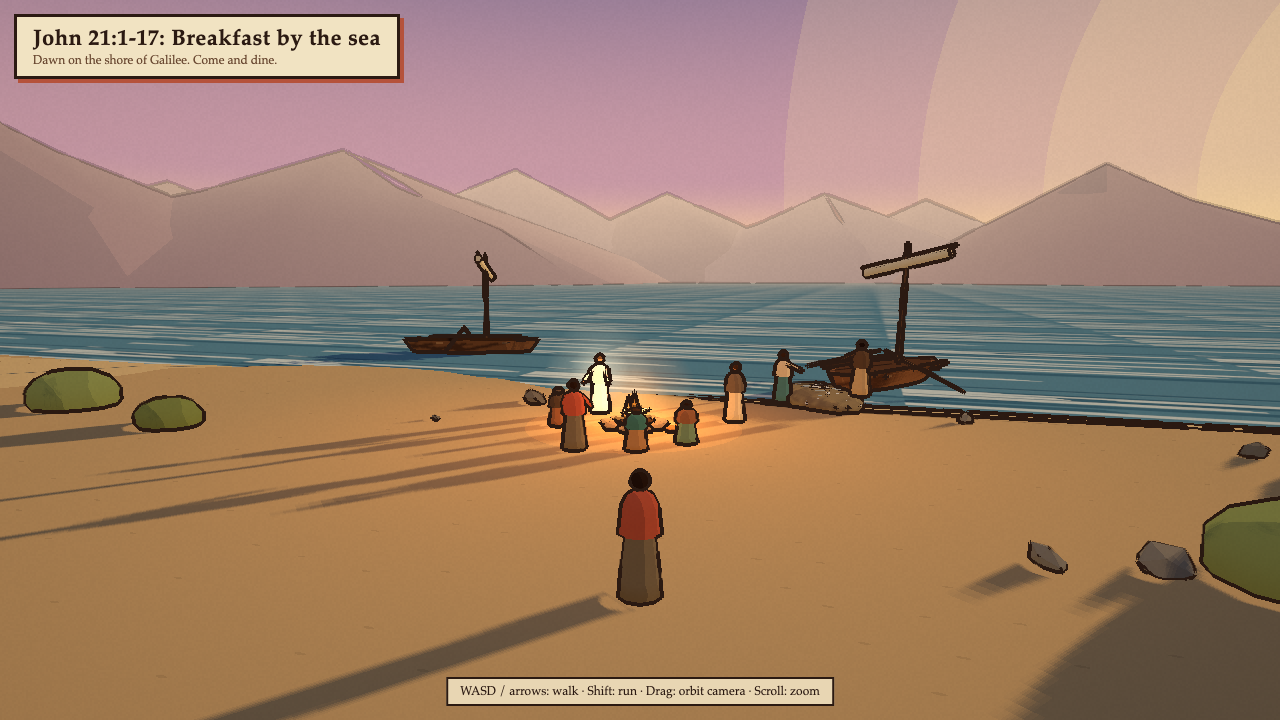
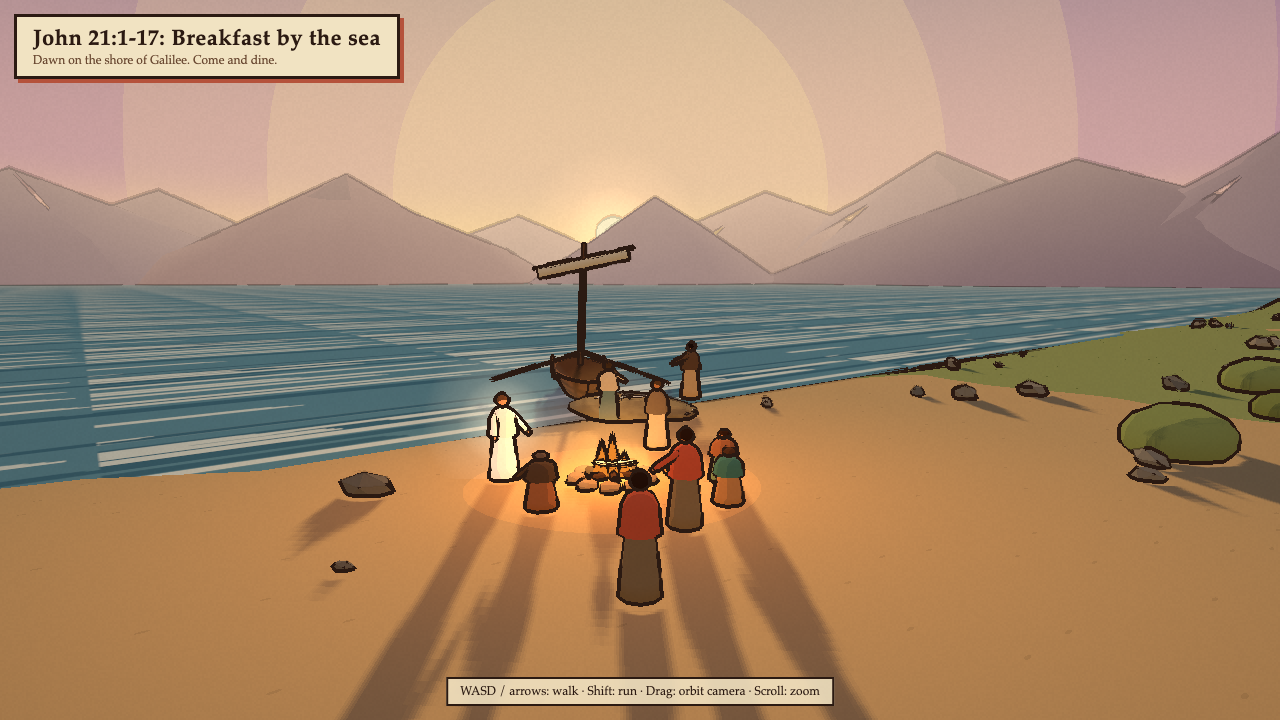
feat: polish toon scenes nt-25 to nt-31

diff --git a/styles/toon/scenes/nt-29.js b/styles/toon/scenes/nt-29.js
@@ -119,7 +119,7 @@ export default {
     facing: [0, -4],
     colors: PALETTE,
     aisles: [{ from: [3, 30], to: [1, -5], width: 3.2 }],
-    keepClear: [{ kind: 'circle', x: -0.4, z: -4, r: 3.6 }],
+    keepClear: [{ kind: 'circle', x: -0.4, z: -4, r: 3.6 }, { kind: 'circle', x: -3.4, z: -0.4, r: 2.4 }, { kind: 'circle', x: -6.2, z: 2.4, r: 2.8 }],
     groups: [
       { center: [-0.4, -4], radius: [4.5, 14], angle: [0.75, 1.65], count: 50, children: 0.1 },
       { center: [-0.4, -4], radius: [4.5, 14], angle: [-1.65, -0.75], count: 50, children: 0.1 },
@@ -130,8 +130,9 @@ export default {
   },
 
   player: {
-    start: [1.6, 1.2],
-    lookAt: [-0.8, -7],
+    start: [-3.2, -0.2],
+    lookAt: [2.4, -5.4],
+    fov: 44,
     colors: { robe: '#7a6a52', mantle: '#b5523b', skin: '#a8724a', hair: '#2b1a12', sash: '#c8912e' },
   },
 };

diff --git a/styles/toon/scenes/nt-30.js b/styles/toon/scenes/nt-30.js
@@ -4,7 +4,7 @@ import * as THREE from 'three';
 import { Batch, DAY_STYLE, angels, box, cityWall, frameAt, glow, olive, person, scatterRocks, xf } from './lib/nt-25-kit.js';
 
 const STEPHEN = [0, -5];
-const SAUL = [6.5, 1.5];
+const SAUL = [4.6, -1.4];
 const VISION = [0, 25, -80];
 
 const ACCUSERS = {
@@ -128,8 +128,9 @@ export default {
   },
 
   player: {
-    start: [2, 3],
-    lookAt: [0, -9],
+    start: [1.6, 0.6],
+    lookAt: [-0.4, -9],
+    fov: 48,
     colors: { robe: '#7a6a52', mantle: '#b5523b', skin: '#a8724a', hair: '#2b1a12', sash: '#c8912e' },
   },
 };

diff --git a/styles/toon/scenes/nt-31.js b/styles/toon/scenes/nt-31.js
@@ -91,8 +91,9 @@ export default {
   },
 
   player: {
-    start: [3.5, 4.5],
-    lookAt: [-1.5, -6],
+    start: [2, 1.4],
+    lookAt: [-2.2, -5.6],
+    fov: 48,
     colors: { robe: '#7a6a52', mantle: '#b5523b', skin: '#a8724a', hair: '#2b1a12', sash: '#c8912e' },
   },
 };

diff --git a/styles/toon/scenes/nt-25.js b/styles/toon/scenes/nt-25.js
@@ -92,8 +92,9 @@ export default {
   },
 
   player: {
-    start: [1.5, 7],
-    lookAt: [0, -3.5],
+    start: [1.8, 0.6],
+    lookAt: [-0.7, -4.2],
+    fov: 46,
     colors: { robe: '#7a6a52', mantle: '#b5523b', skin: '#a8724a', hair: '#2b1a12', sash: '#c8912e' },
   },
 };

diff --git a/styles/toon/scenes/nt-28.js b/styles/toon/scenes/nt-28.js
@@ -155,8 +155,9 @@ export default {
   },
 
   player: {
-    start: [7.4, 11],
-    lookAt: [0, -11],
+    start: [6, 4.6],
+    lookAt: [-0.5, -12],
+    fov: 46,
     colors: { robe: '#7a6a52', mantle: '#b5523b', skin: '#a8724a', hair: '#2b1a12', sash: '#c8912e' },
   },
 };

diff --git a/styles/toon/scenes/nt-26.js b/styles/toon/scenes/nt-26.js
@@ -97,8 +97,8 @@ export default {
   },
 
   player: {
-    start: [3.5, 9],
-    lookAt: [-0.5, -3],
+    start: [-2.9, 3.5],
+    lookAt: [1.4, -1.8],
     colors: { robe: '#7a6a52', mantle: '#b5523b', skin: '#a8724a', hair: '#2b1a12', sash: '#c8912e' },
   },
 };

diff --git a/styles/toon/scenes/nt-27.js b/styles/toon/scenes/nt-27.js
@@ -132,7 +132,7 @@ export default {
   },
 
   player: {
-    start: [0, 9],
+    start: [0.6, 4.6],
     lookAt: [0, -12],
     colors: { robe: '#7a6a52', mantle: '#b5523b', skin: '#a8724a', hair: '#2b1a12', sash: '#c8912e' },
   },
